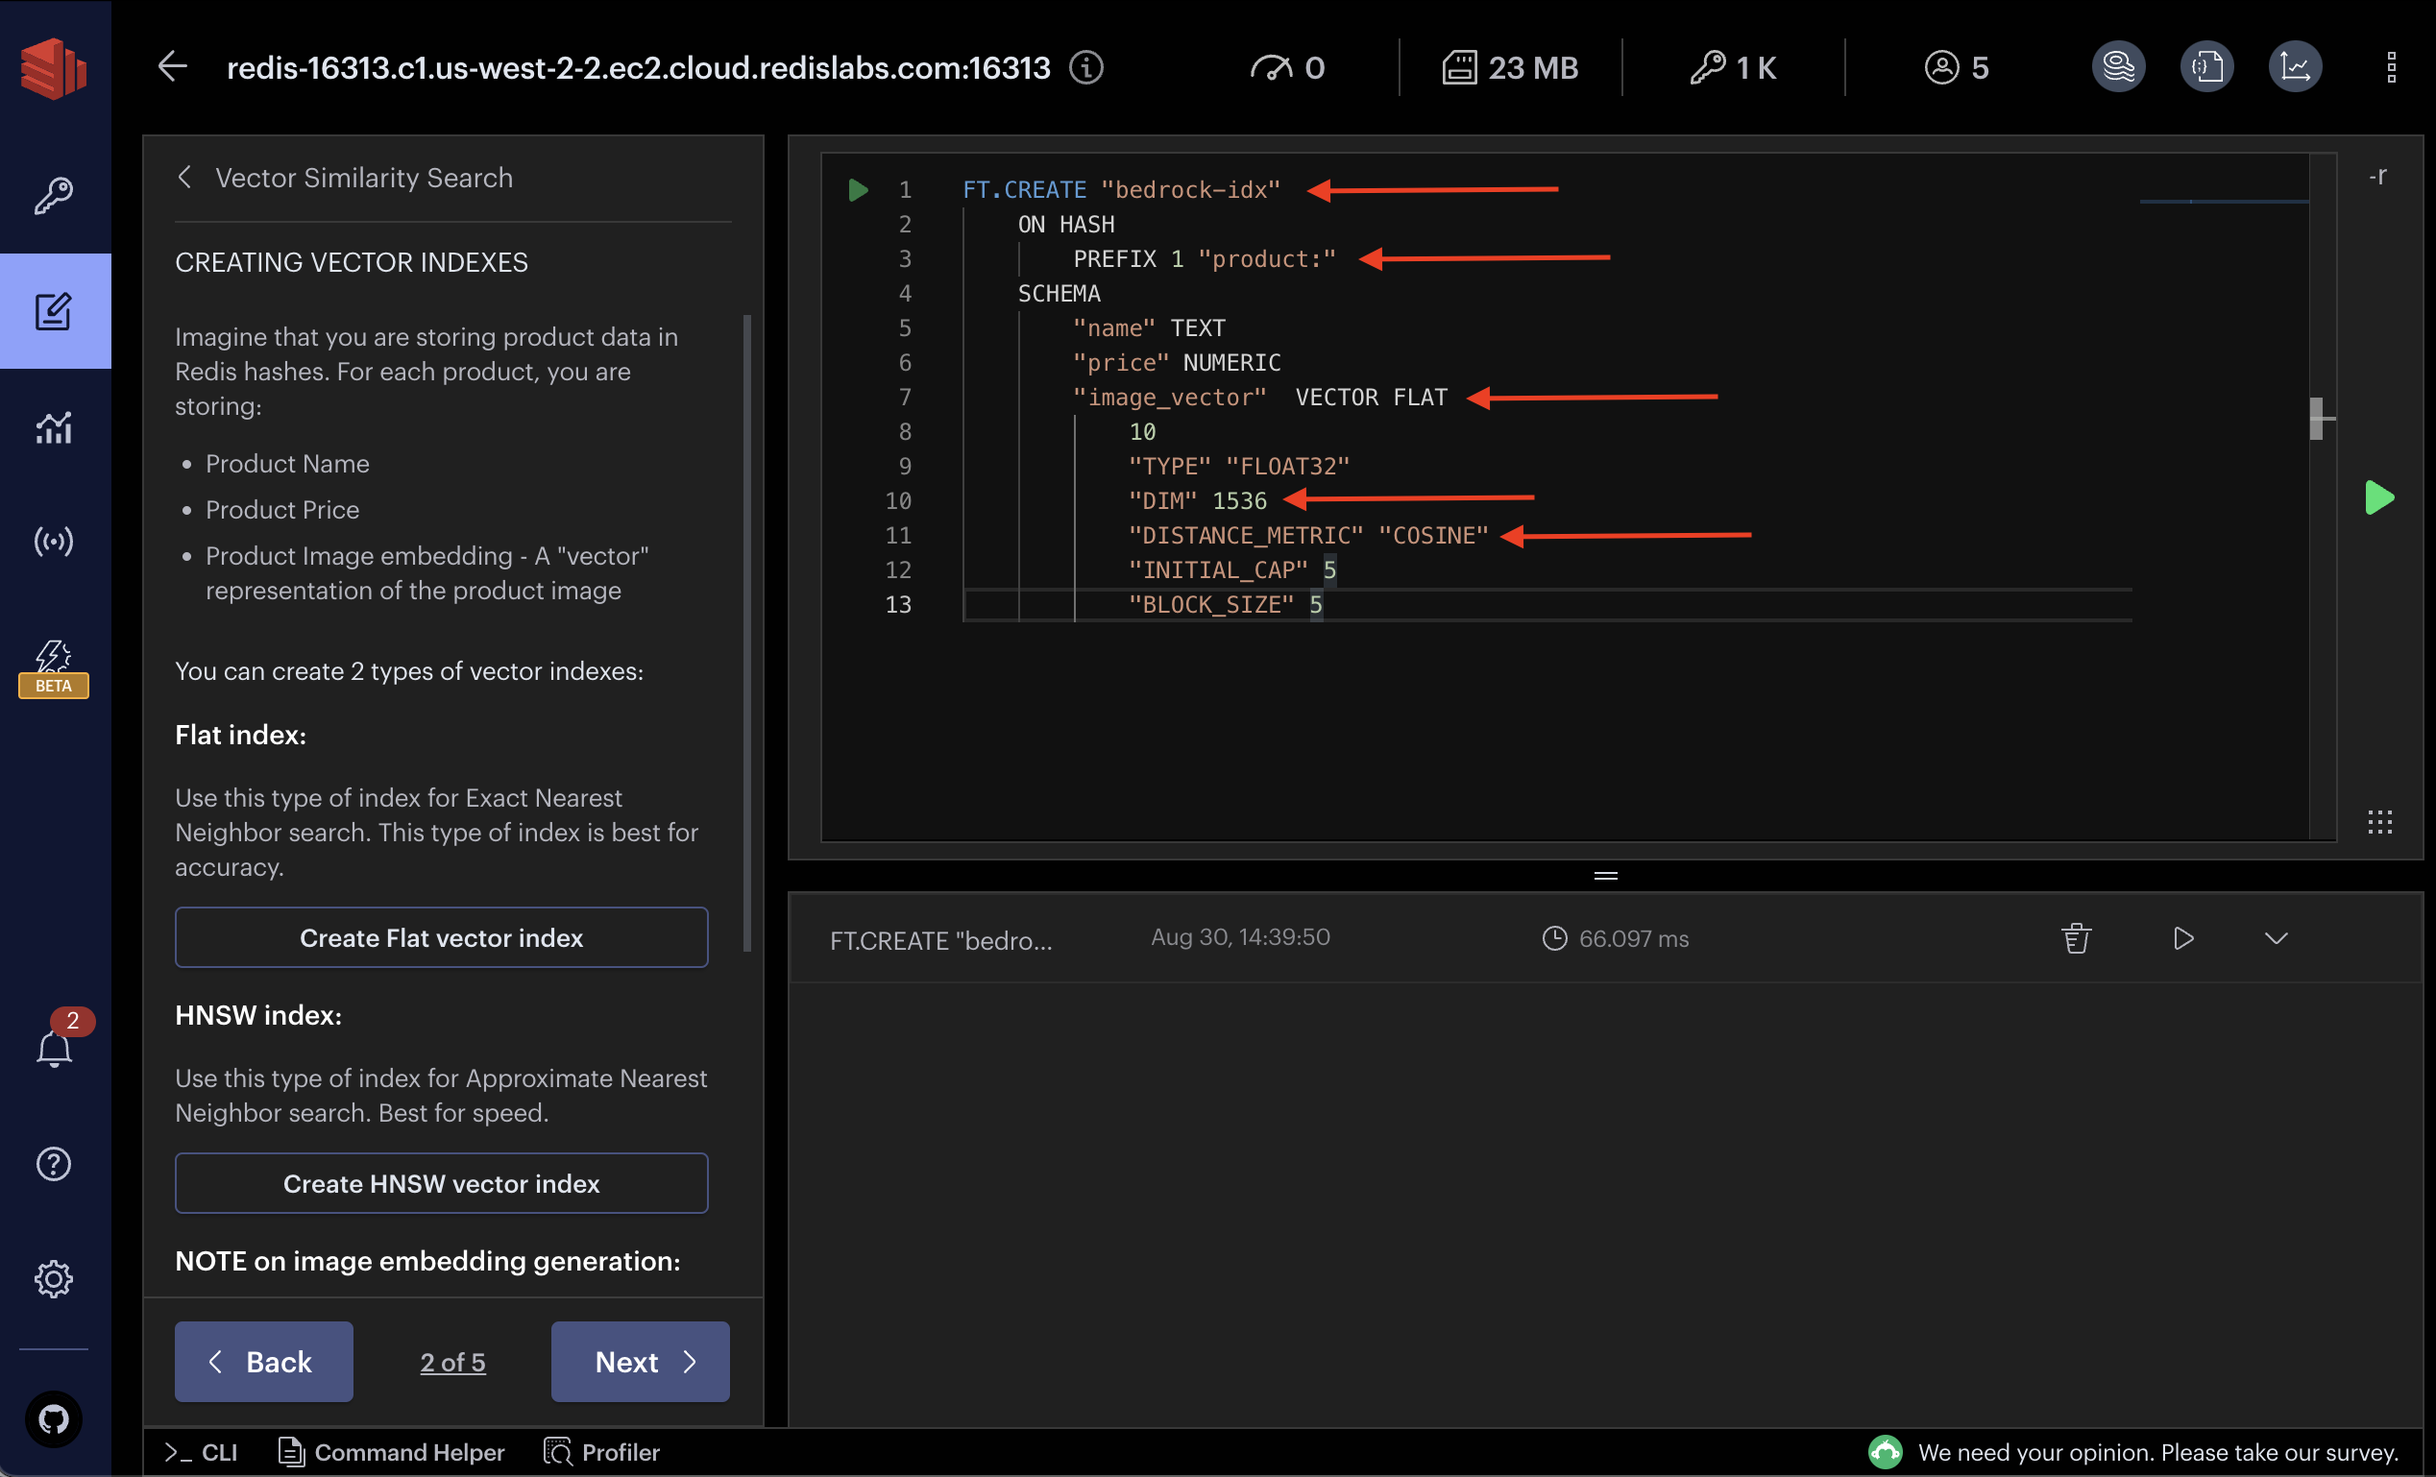
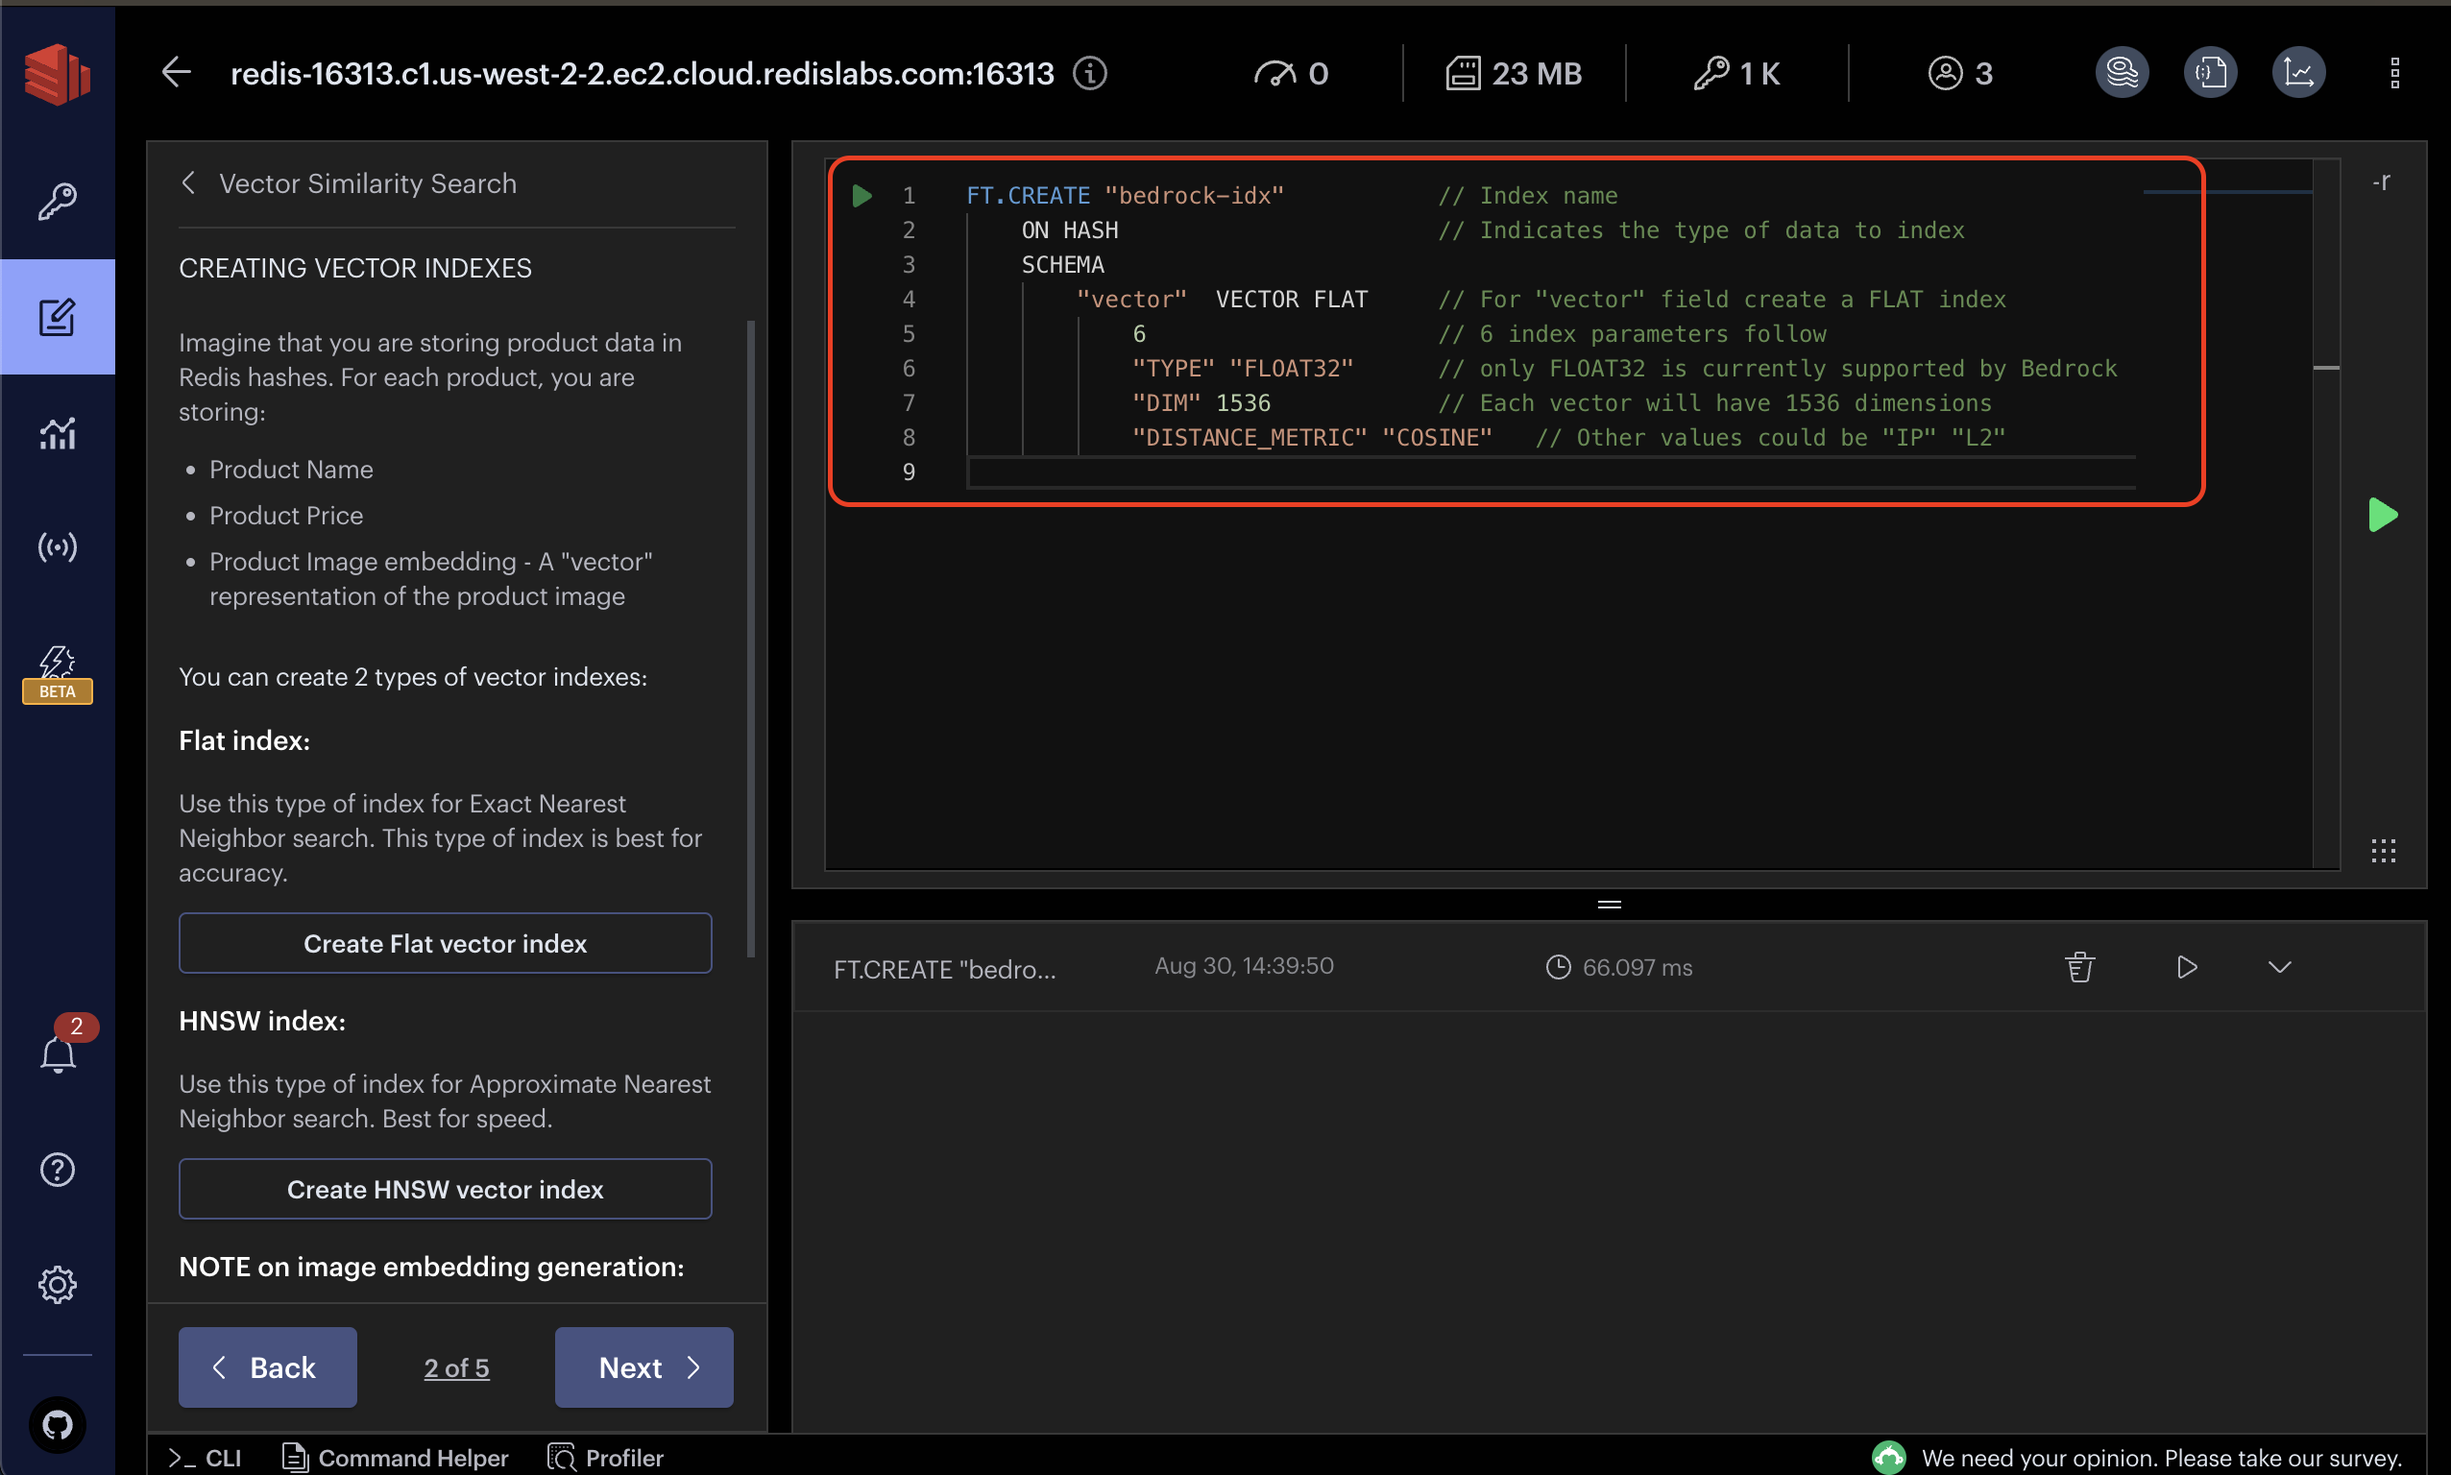
Updated sizing and Vector index creation screenshots.

diff --git a/docs/redis-enterprise-cloud-setup.md b/docs/redis-enterprise-cloud-setup.md
@@ -75,13 +75,18 @@ Give your `database` a name and select `RediSearch` and `RedisJSON` modules.
 
 <img width="1288" alt="bedrock-redis-rc-15" src="./assets/bedrock-redis-rc-15.png">
 
-Depending upon the total number of documents you intend to use in your vector database, you will need to start with a specific data size for your applications. For this exercise, use the approximate sizing table below to help pick a starting point (which you can always adjust up or down later on). Alternatively, you can select a simple minimalistic configuration for now (example: Memory = 1 GB and Throughput Shards = 1).
+Depending upon the total number of documents you intend to use in your vector database, you will need to start with a specific data size for your applications. For this exercise, use the approximate sizing table below to help pick a starting point (which you can always adjust up or down later on).
 
-| Number of Documents | Db size w/out replication (no HA) | Db size w/ replication (HA) |
+| Total Size of Documents in S3 | Db size w/out replication (no HA) | Db size w/ replication (HA) |
 | ------- | ------- | ------- |
-| TODO  | TODO  | TODO  |
-| TODO  | TODO  | TODO  |
+| 10,000 kb  | 60 Mb  | 120 Mb  |
+| 100,000 kb  | 600 Mb  | 1.2 Gb  |
+| 1,000,000 kb | 6 Gb | 12 Gb |
+| 10,000,000 kb | 60 Gb | 120 Gb |
 
+If you would like to understand the rationale behind the above calculations, please check out [this blog](https://redis.com/blog/amazon-bedrock-integration-with-redis-enterprise/) that has more details.
+
+Alternatively, you can select a simple minimalistic configuration for now (example: Memory = 1 GB and Throughput Shards = 1).
 
 <img width="1288" alt="bedrock-redis-rc-21" src="./assets/bedrock-redis-rc-21.png">
 

diff --git a/docs/vector-index-creation.md b/docs/vector-index-creation.md
@@ -76,7 +76,6 @@ Given the options available, choose to create a FLAT index.
 
 > 💡 Redis supports two index types: FLAT and HNSW. FLAT is apt for smaller datasets needing precision, while HNSW suits larger datasets prioritizing speed over some accuracy. For more details, read about the supported index types [here](https://redis.io/docs/interact/search-and-query/search/vectors/#create-a-vector-field).
 
-![Command Editor](#TODO - open editor for commands)
 ![bedrock-index-creation-2](./assets/bedrock-index-creation-2.png)
 
 We need to update the provided index creation script with settings that are relevant to Bedrock. Here's what we need to include:
@@ -93,7 +92,6 @@ We need to update the provided index creation script with settings that are rele
 
 Execute the script, as seen below, using the green arrow.
 
-![Run Script](#TODO - show running the index creation script)
 ![bedrock-index-creation-4](./assets/bedrock-index-creation-4.png)
 
 And you will see a confirmation like this:
